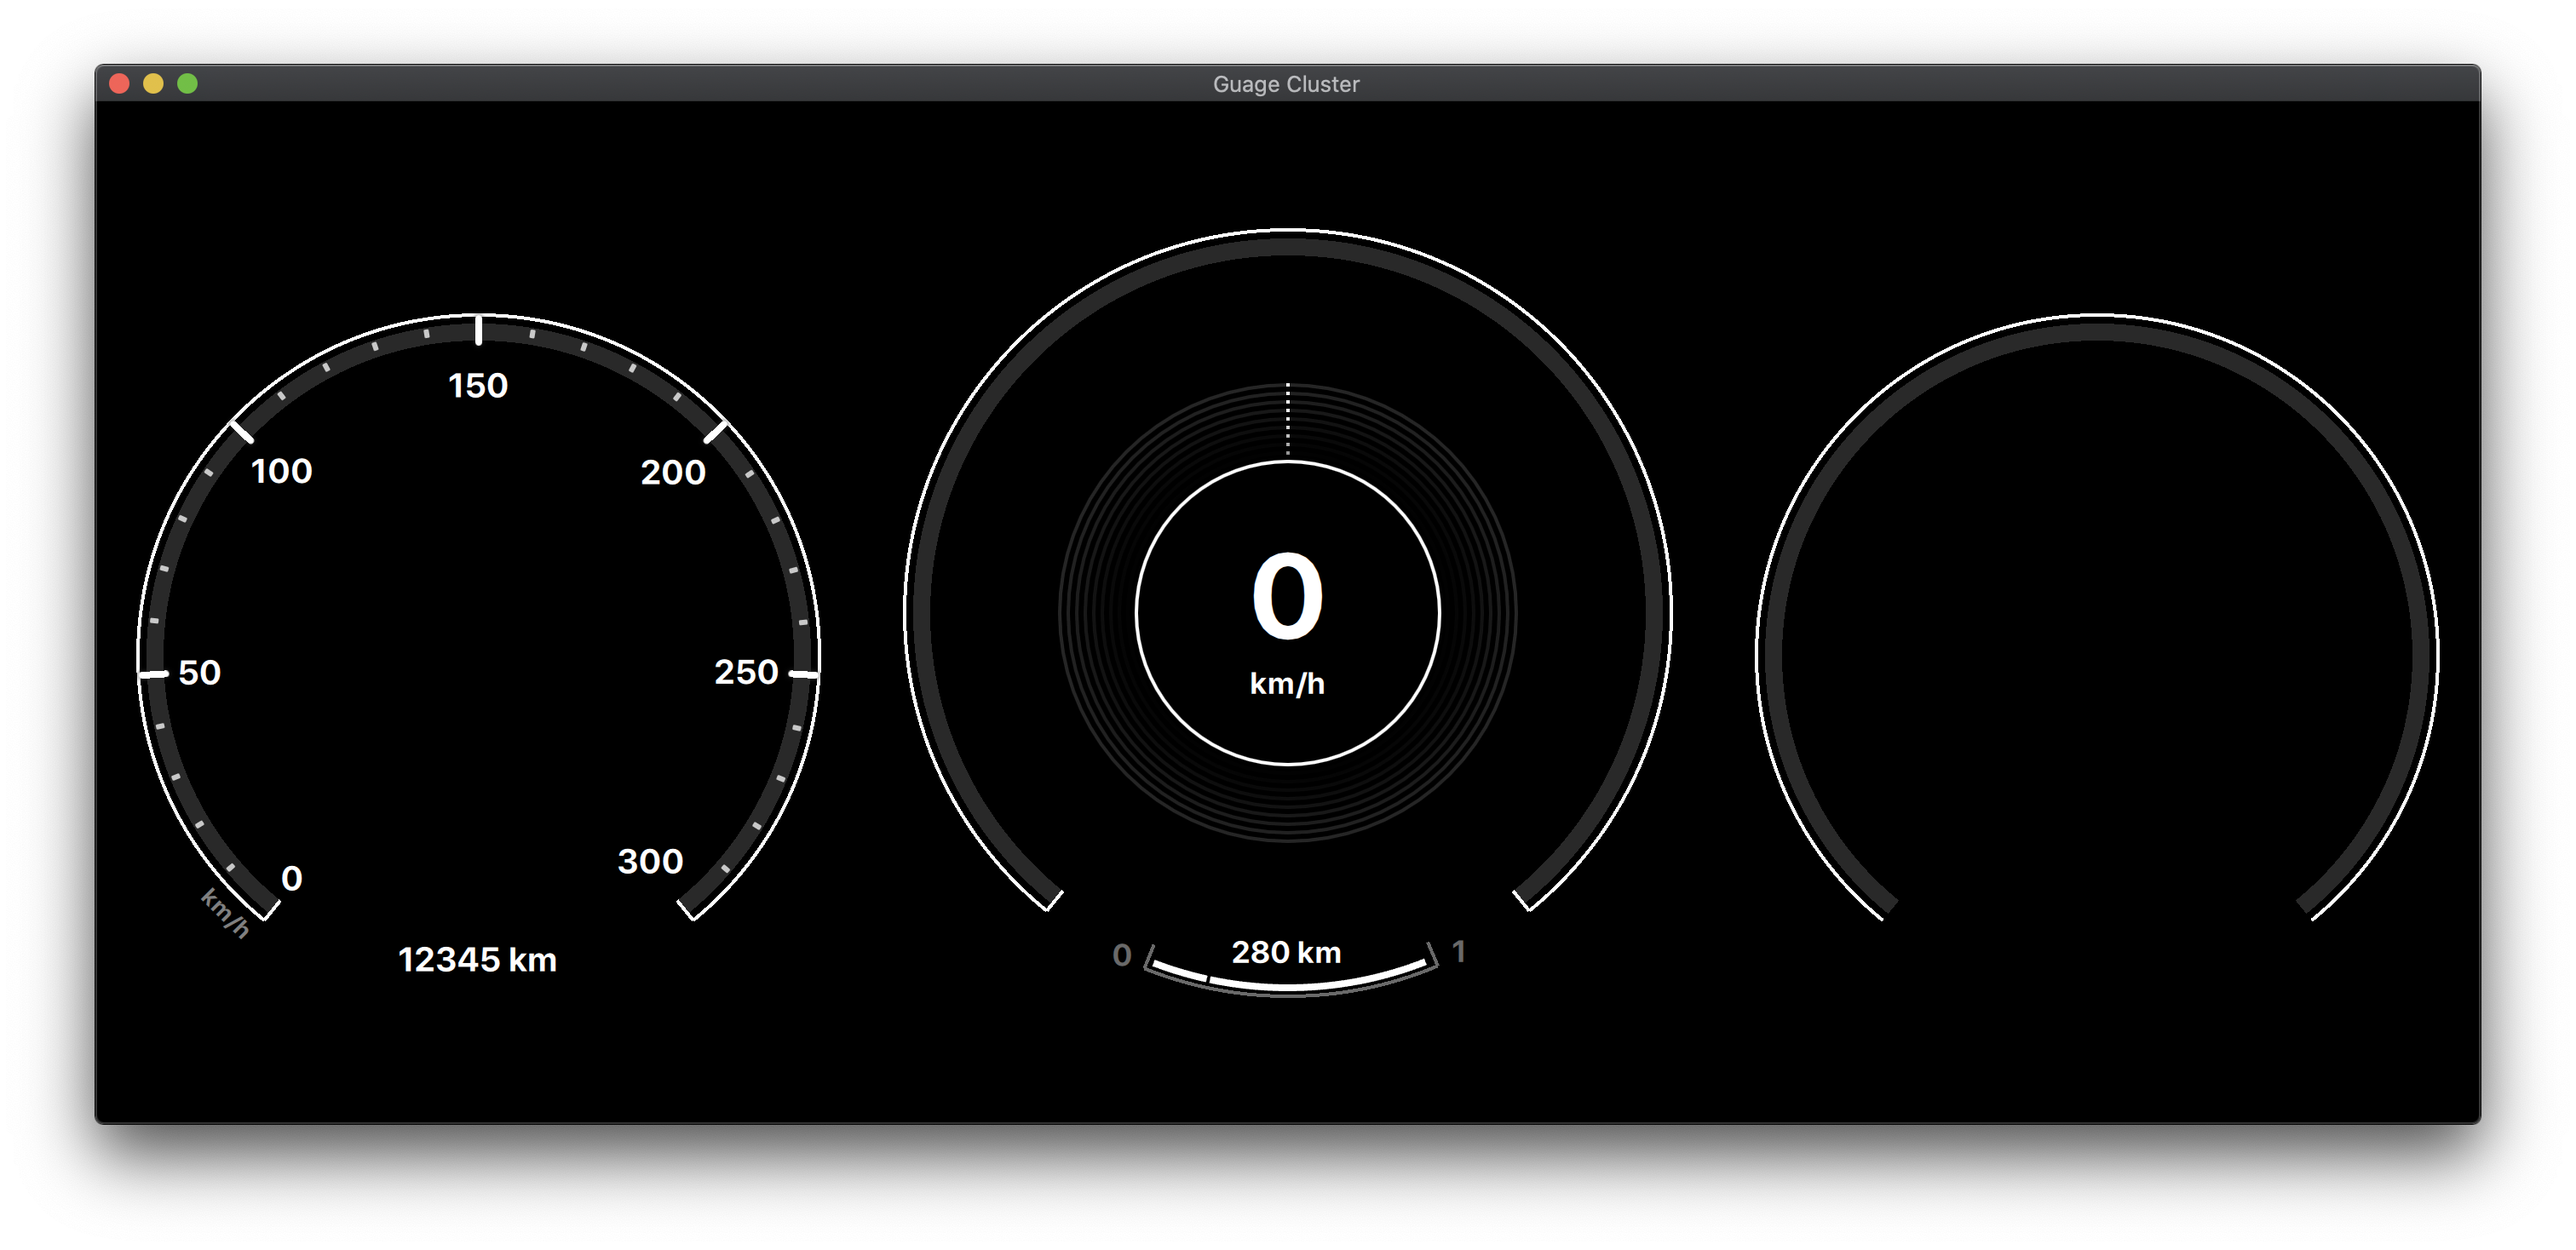
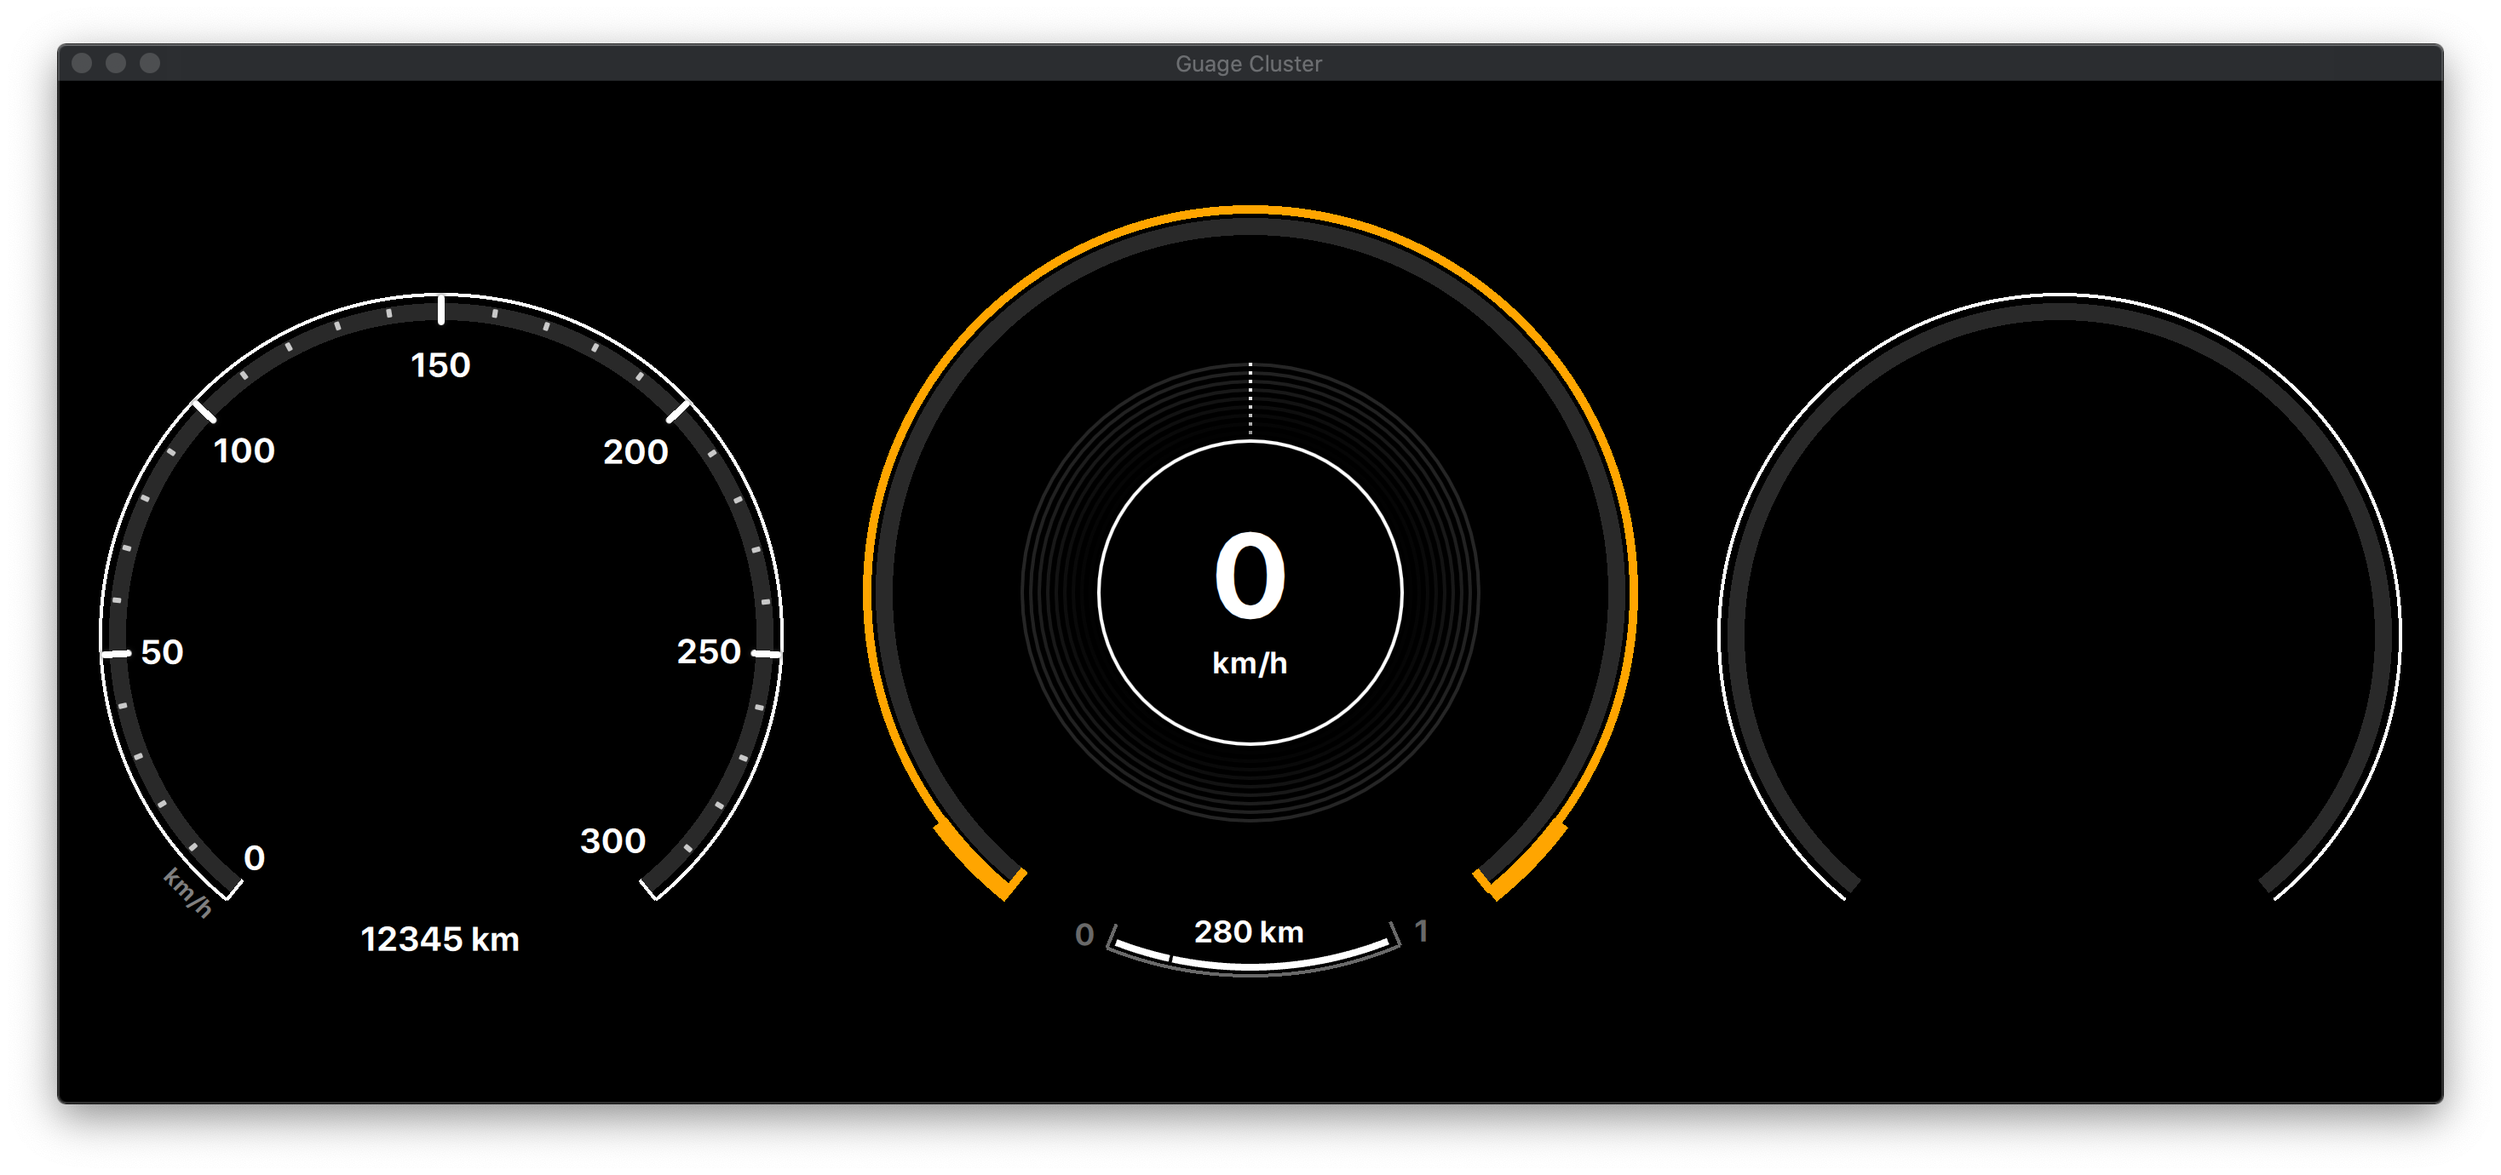
Add guage select mode.

diff --git a/GuageOutline.qml b/GuageOutline.qml
@@ -12,6 +12,9 @@ Item {
     property int angleStart
     property int sweepAngle
 
+    property bool selected
+    property bool selectFunction
+
     property bool showStops: false
 
     Shape {
@@ -34,13 +37,12 @@ Item {
         }
 
         ShapePath {
-            strokeWidth: 2
-            strokeColor: "white"
+            strokeWidth: (selected && !selectFunction) ? 5 : 2
+            strokeColor: (selected && !selectFunction) ? "orange" : "white"
             capStyle: ShapePath.FlatCap
             fillColor: "transparent"
 
             startX: 0; startY: 0
-
 
             PathAngleArc {
                 centerX: parent.width / 2; centerY: parent.height / 2
@@ -64,9 +66,9 @@ Item {
 
         Rectangle {
             width: 15
-            height: 2
+            height: (selected && !selectFunction) ? 5 : 2
 
-            color: "white"
+            color:  (selected && !selectFunction) ? "orange" : "white"
 
             anchors.left: parent.left
             anchors.verticalCenter: parent.verticalCenter
@@ -86,12 +88,63 @@ Item {
 
         Rectangle {
             width: 15
-            height: 2
+            height: (selected && !selectFunction) ? 5 : 2
 
-            color: "white"
+            color:  (selected && !selectFunction) ? "orange" : "white"
 
             anchors.left: parent.left
             anchors.verticalCenter: parent.verticalCenter
+        }
+    }
+
+    Shape {
+        id: selectTabs
+
+        property int sweepAngle: 15
+        property real endOffset: 0.5
+        property int innerOffset: 2
+
+        anchors.fill: parent
+
+        visible: selected
+
+        ShapePath {
+            strokeWidth: 10
+            strokeColor: "orange"
+            capStyle: ShapePath.FlatCap
+            fillColor: "transparent"
+
+            startX: 0; startY: 0
+
+            PathAngleArc {
+                centerX: parent.width / 2; centerY: parent.height / 2
+                radiusX: (parent.width / 2) + selectTabs.innerOffset; radiusY: (parent.height / 2) + selectTabs.innerOffset
+                startAngle: {
+                    if(selectFunction) {
+                        -(selectTabs.sweepAngle / 2);
+                    } else {
+                        component.angleStart - 180 + component.sweepAngle - 15 + selectTabs.endOffset;
+                    }
+                }
+                sweepAngle: selectTabs.sweepAngle
+
+                Behavior on startAngle { PropertyAnimation {} }
+            }
+
+            PathAngleArc {
+                centerX: parent.width / 2; centerY: parent.height / 2
+                radiusX: (parent.width / 2) + selectTabs.innerOffset; radiusY: (parent.height / 2) + selectTabs.innerOffset
+                startAngle: {
+                    if (selectFunction) {
+                        -180 - (selectTabs.sweepAngle / 2);
+                    } else {
+                        component.angleStart - 180 - selectTabs.endOffset;
+                    }
+                }
+                sweepAngle: selectTabs.sweepAngle
+
+                Behavior on startAngle { PropertyAnimation {} }
+            }
         }
     }
 }

diff --git a/view.qml b/view.qml
@@ -24,15 +24,27 @@ Window {
 
         property int odometer: 12345
 
+        property bool selectGuage: false
+        property string selectedGuage: 'center'
+        property bool selectGuageFunction: false
+
         id: debugHarness
         focus: true
 
+        // This control logic is rough. It will be cleaned up.
         Keys.onPressed: {
             if (event.key === Qt.Key_Up) {
-                speed += 10;
+                if (selectGuage) {
+                    selectGuageFunction = true;
+                } else {
+                    speed += 10;
+                }
             }
             else if (event.key === Qt.Key_Down) {
-                if (speed > 0) {
+                if (selectGuage) {
+
+                }
+                else if (speed > 0) {
                     speed -= 10;
                 }
             }
@@ -52,6 +64,24 @@ Window {
             else if (event.key === Qt.Key_C) {
                 cruiseSpeed = cruiseSpeed == 0 && speed >= 25 ? speed : 0;
             }
+            else if (selectGuage && event.key === Qt.Key_G) {
+                var options = ['left', 'center', 'right'];
+
+                if (options.indexOf(selectedGuage) === options.length - 1) {
+                    selectedGuage = options[0];
+                } else {
+                    selectedGuage = options[options.indexOf(selectedGuage) + 1];
+                }
+
+                selectGuageFunction = false
+            }
+            else if (event.key === Qt.Key_Return || event.key === Qt.Key_Enter) {
+                if (selectGuage) {
+                    selectGuageFunction = false;
+                }
+
+                selectGuage = !selectGuage;
+            }
         }
     }
 
@@ -68,6 +98,9 @@ Window {
         CenterGuage {
             id: centerGuage
 
+            selected: debugHarness.selectGuage && debugHarness.selectedGuage === 'center'
+            selectFunction: debugHarness.selectGuageFunction
+
             speed: debugHarness.speed
             units: debugHarness.units
 
@@ -81,6 +114,9 @@ Window {
           Left Guage
         */
         LeftGuage {
+            selected: debugHarness.selectGuage && debugHarness.selectedGuage === 'left'
+            selectFunction: debugHarness.selectGuageFunction
+
             speed: debugHarness.speed
             cruiseSpeed: debugHarness.cruiseSpeed
 
@@ -100,6 +136,9 @@ Window {
           Right Guage
         */
         RightGuage {
+            selected: debugHarness.selectGuage && debugHarness.selectedGuage === 'right'
+            selectFunction: debugHarness.selectGuageFunction
+
             width: 400
             height: 400
 

diff --git a/CenterGuage.qml b/CenterGuage.qml
@@ -5,6 +5,9 @@ import QtQuick.Shapes 1.14
 import "."
 
 Item {
+    property bool selected
+    property bool selectFunction
+
     property int speed
     property string units
 
@@ -12,10 +15,15 @@ Item {
     property int guageAngleStart: -50
     property int guageAngleEnd: guageAngleStart + guageSweepAngle
 
+    id: component
+
     /*
       Guage Outline
     */
     GuageOutline {
+        selected: component.selected
+        selectFunction: component.selectFunction
+
         angleStart: guageAngleStart - 1
         sweepAngle: guageSweepAngle + 2
 

diff --git a/RightGuage.qml b/RightGuage.qml
@@ -1,14 +1,22 @@
 import QtQuick 2.0
 
 Item {
+    property bool selected
+    property bool selectFunction
+
     property int guageSweepAngle: 280
     property int guageAngleStart: -50
     property int guageAngleEnd: guageAngleStart + guageSweepAngle
+
+    id: component
 
     /*
       Guage Outline
     */
     GuageOutline {
+        selected: component.selected
+        selectFunction: component.selectFunction
+
         angleStart: guageAngleStart - 1
         sweepAngle: guageSweepAngle + 2
 

diff --git a/LeftGuage.qml b/LeftGuage.qml
@@ -4,6 +4,9 @@ import QtQuick.Shapes 1.14
 
 
 Item {
+    property bool selected
+    property bool selectFunction
+
     property real speed
     property real cruiseSpeed
 
@@ -48,6 +51,9 @@ Item {
       Guage Outline
     */
     GuageOutline {
+        selected: component.selected
+        selectFunction: component.selectFunction
+
         angleStart: guageAngleStart - 1
         sweepAngle: guageSweepAngle + 2
 

diff --git a/README.md b/README.md
@@ -31,7 +31,7 @@ has one of the best digital clusters on the market right now, I decided to imple
   </thead>
   <tbody>
     <tr>
-      <td>Up</td>
+      <td>Up (default)</td>
       <td>Increase speed</td>
     </tr>
     <tr>
@@ -53,6 +53,18 @@ has one of the best digital clusters on the market right now, I decided to imple
     <tr>
       <td>C</td>
       <td>Set cruise (speed must be greater than 25)</td>
+    </tr>
+    <tr>
+      <td>Enter / Return</td>
+      <td>Enter guage select mode.</td>
+    </tr>
+    <tr>
+      <td>G</td>
+      <td>Change selected guage.</td>
+    </tr>
+    <tr>
+      <td>Up (in guage select mode)</td>
+      <td>Enter guage function select mode.</td>
     </tr>
   </tbody>
 </table>
